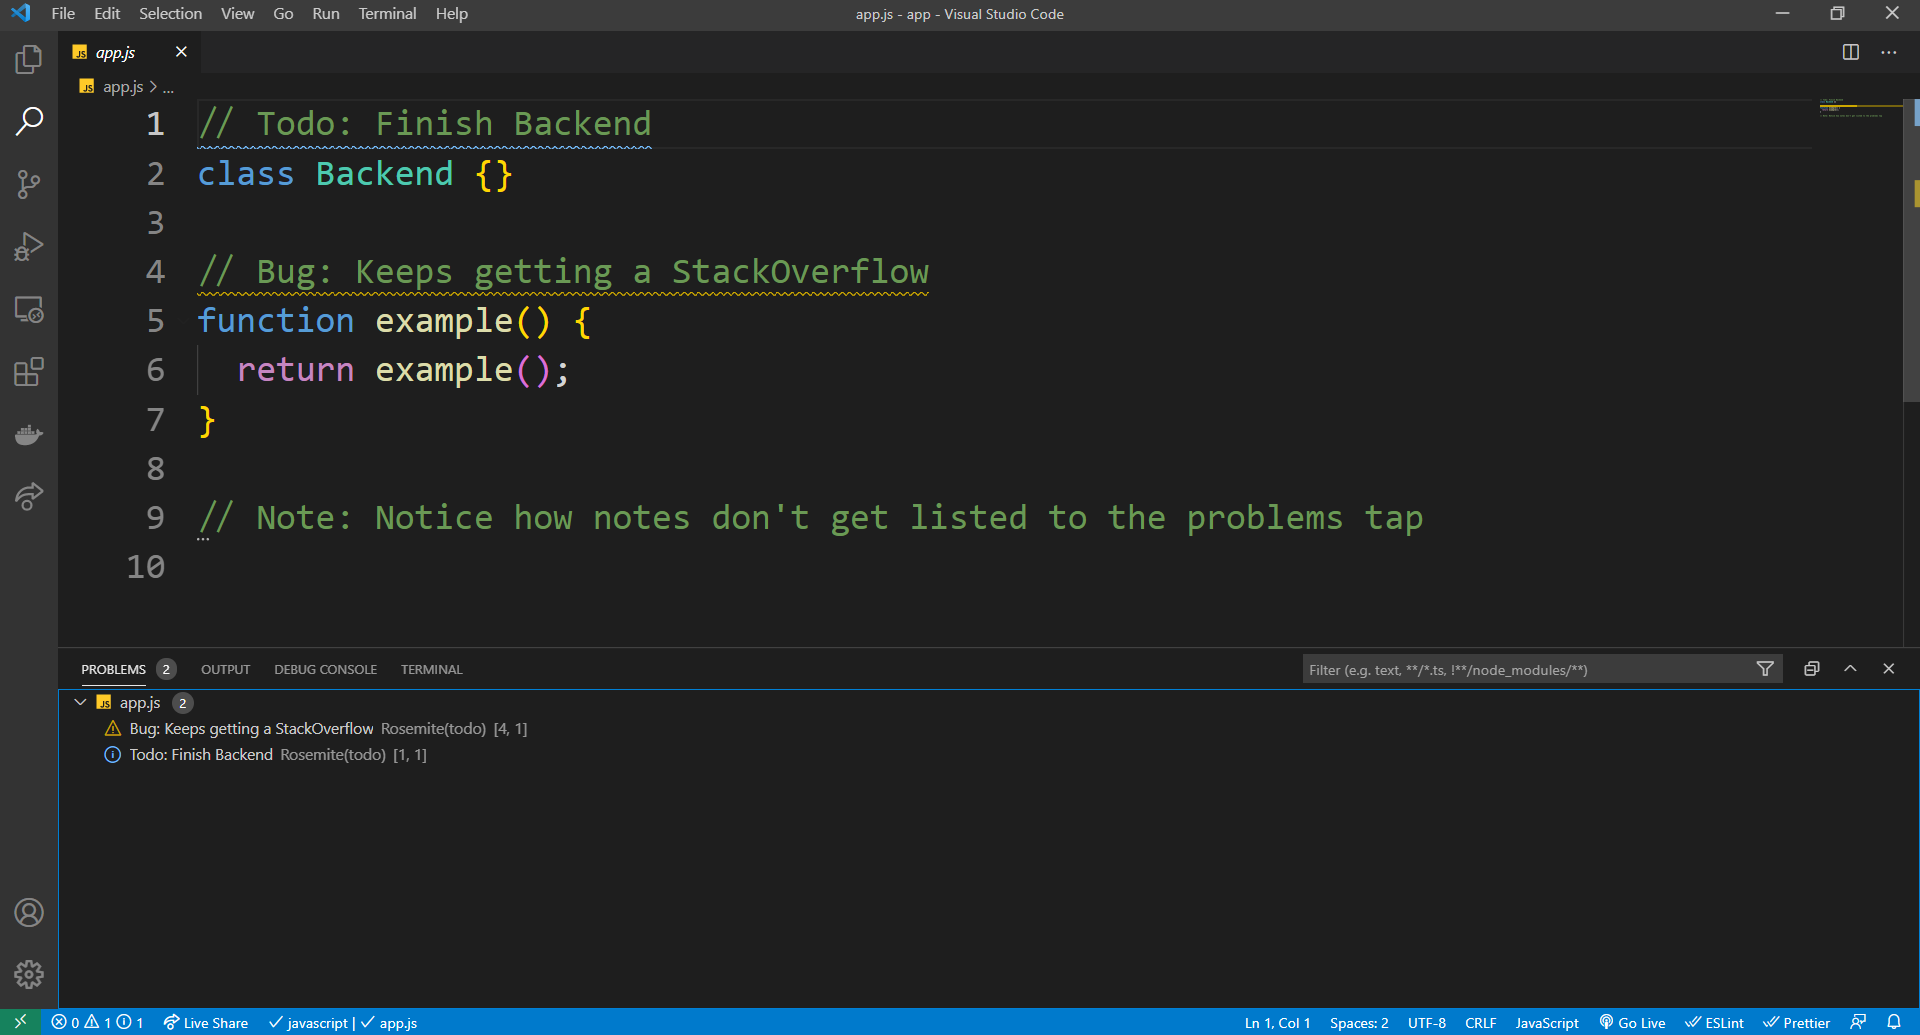
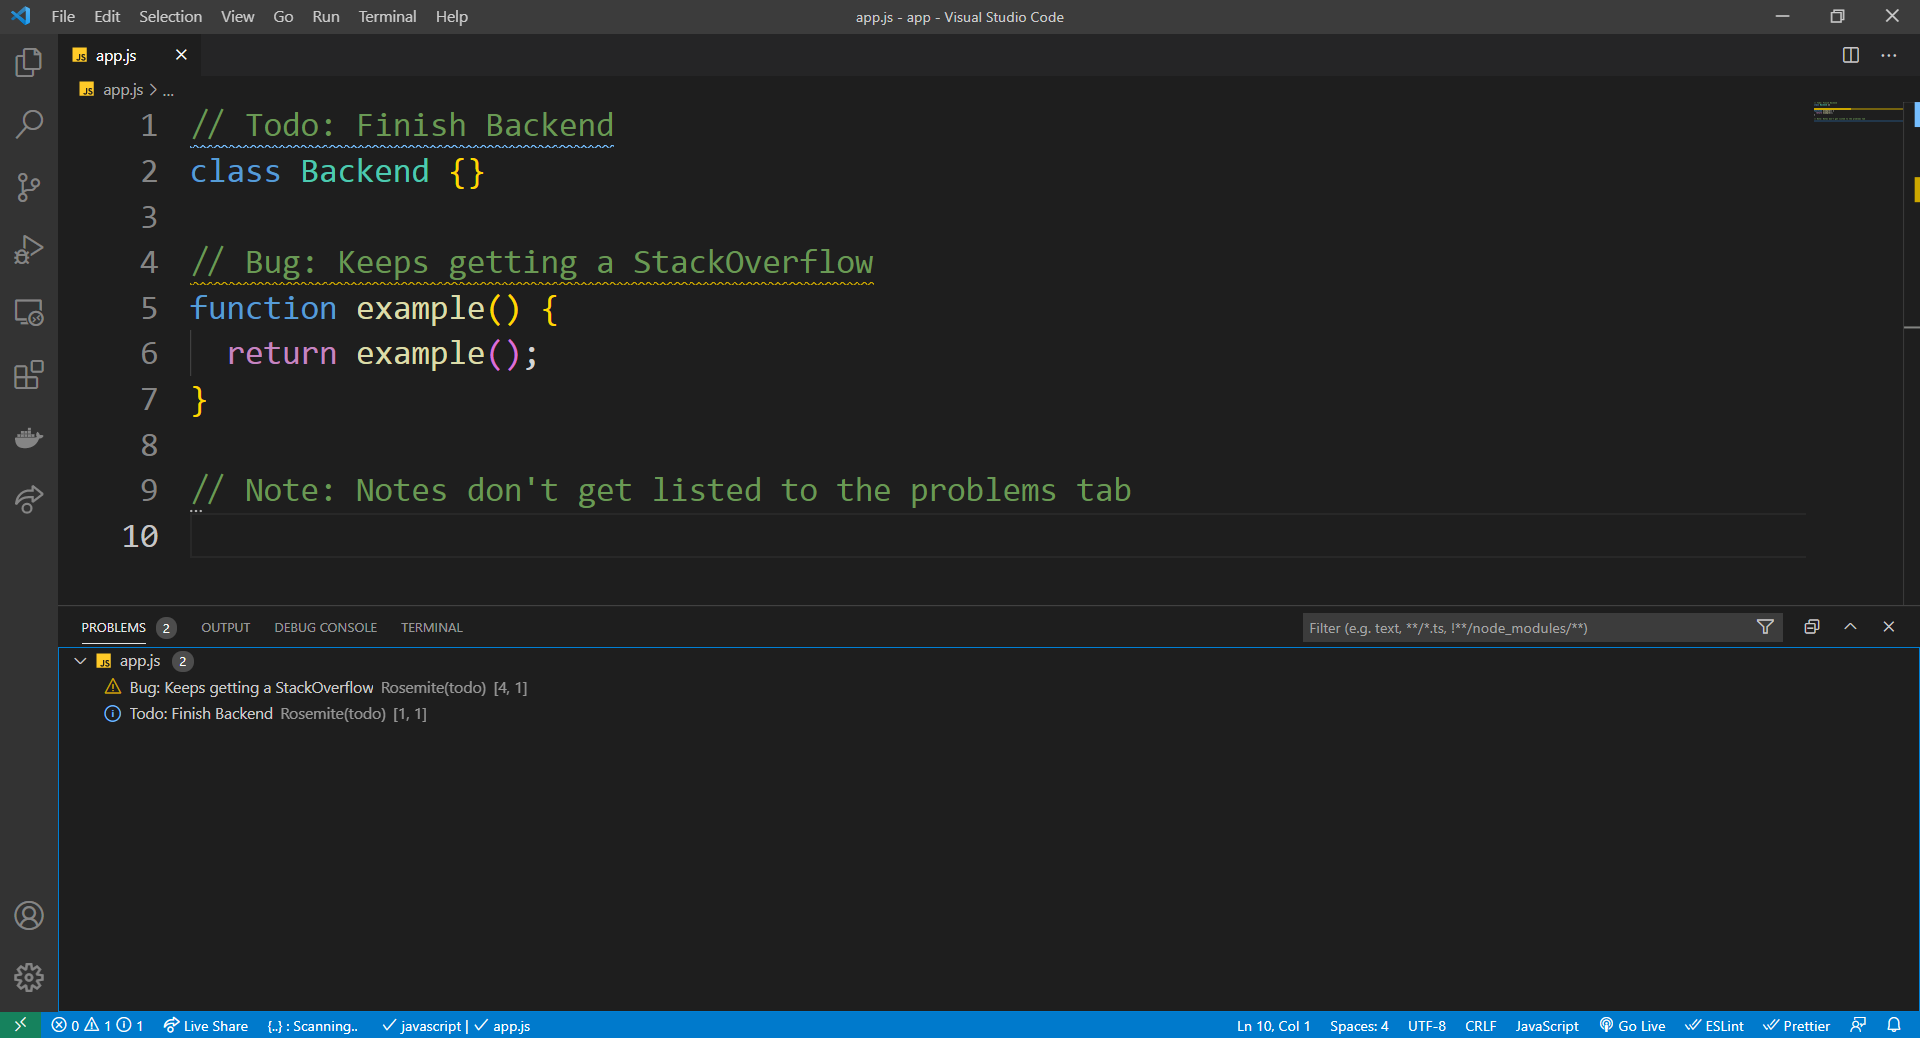
✔Fixed Typo

diff --git a/README.md b/README.md
@@ -9,7 +9,7 @@
     <img src="https://img.shields.io/badge/platform-Visual Studio Code-yellow?style=flat-square" alt="Project Platform" />
   </p>
 
-![](https://raw.githubusercontent.com/SolomonRosemite/TypeScript-Todo/8cbadc5e9f21f6412c8b1517b9c7d012ee52f6c4/todo-list/assets/example.png)
+![](https://raw.githubusercontent.com/SolomonRosemite/TypeScript-Todo/master/todo-list/assets/example.png)
 
 # Features📖
 
@@ -30,10 +30,10 @@ Example Bug:
 Example Note:
 
 ```javascript
-// Note: Notes don't get listed to the problems tap
+// Note: Notes don't get listed to the problems tab
 ```
 
-- All Todos & Bugs will be underlined and listed in the Problems tap.
+- All Todos & Bugs will be underlined and listed in the Problems tab.
 
 # Installation
 

diff --git a/todo-list/README.md b/todo-list/README.md
@@ -9,7 +9,7 @@
     <img src="https://img.shields.io/badge/platform-Visual Studio Code-yellow?style=flat-square" alt="Project Platform" />
   </p>
 
-![](https://raw.githubusercontent.com/SolomonRosemite/TypeScript-Todo/8cbadc5e9f21f6412c8b1517b9c7d012ee52f6c4/todo-list/assets/example.png)
+![](https://raw.githubusercontent.com/SolomonRosemite/TypeScript-Todo/master/todo-list/assets/example.png)
 
 # Features📖
 
@@ -30,10 +30,10 @@ Example Bug:
 Example Note:
 
 ```javascript
-// Note: Notes don't get listed to the problems tap
+// Note: Notes don't get listed to the problems tab
 ```
 
-- All Todos & Bugs will be underlined and listed in the Problems tap.
+- All Todos & Bugs will be underlined and listed in the Problems tab.
 
 # Installation
 
